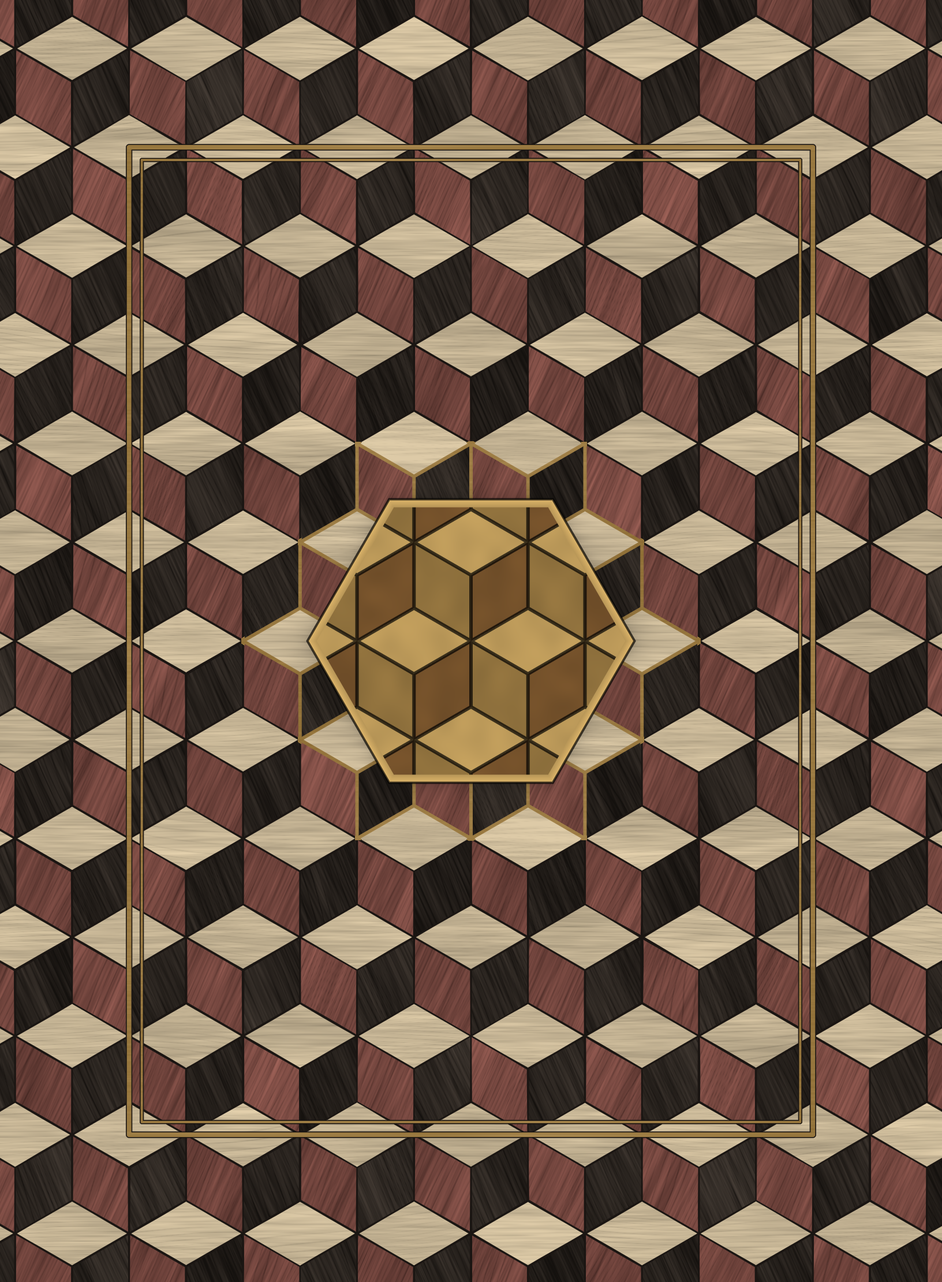
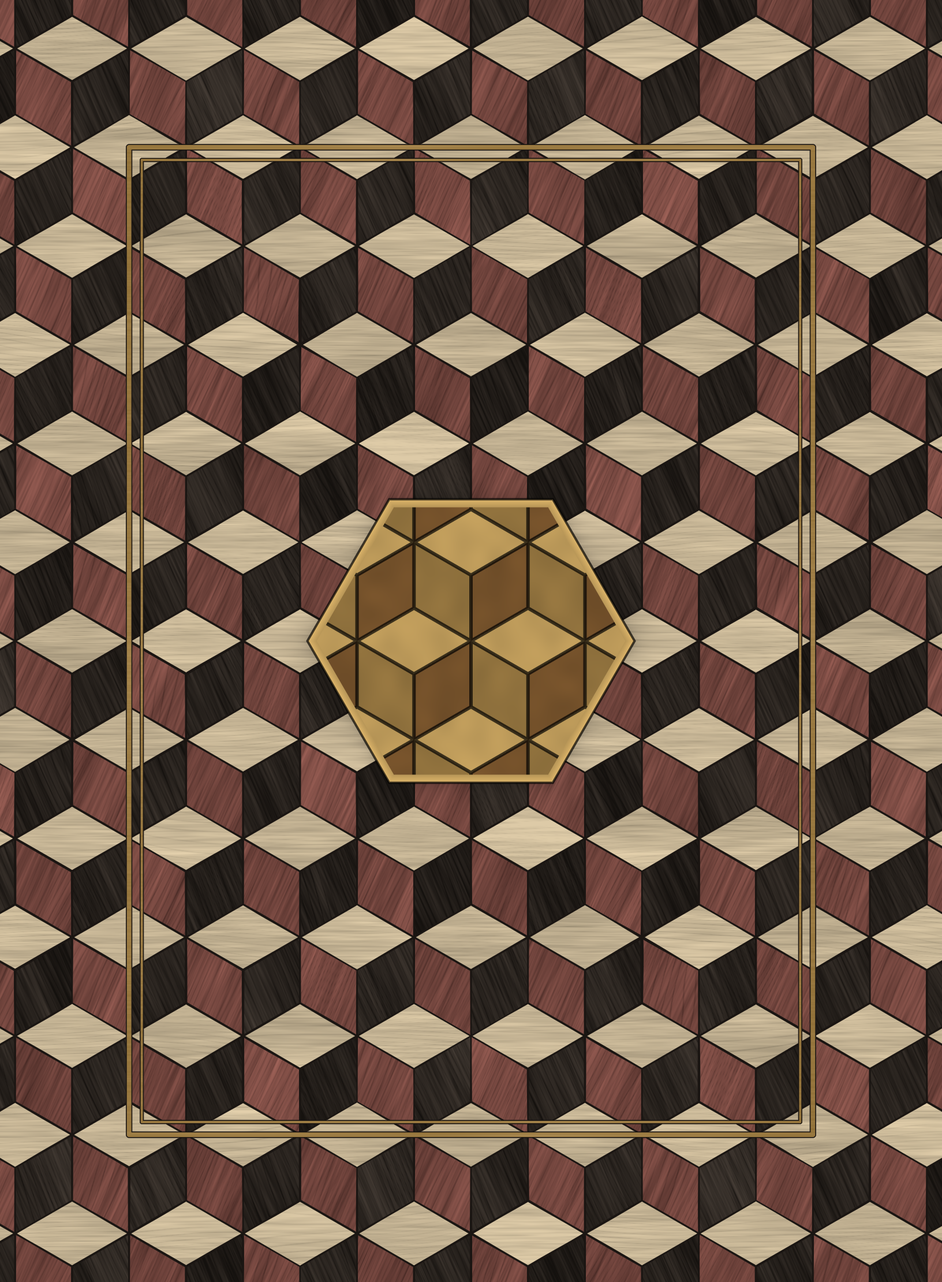
Tumbling Blocks: the star really off — the switch lives in render.py, not params.json

diff --git a/docs/proxies/cardback/blocks/tools/render.py b/docs/proxies/cardback/blocks/tools/render.py
@@ -43,7 +43,7 @@ PARAMS = {
               "grain_amp": 0.04, "grain_seed": 11, "grain_cells": [52, 70],
               "edge_line_half_px": 2.0, "edge_line_dark": 0.7,
               "shadow": 0.16, "shadow_px": 18.0,
-              "halo": True},       # the brass-strung star of 30 rhombi around it, as on the sheets the owner chose from
+              "halo": False},      # the brass-strung star of 30 rhombi around it: OFF, the owner chose the plate alone (2026-10-12)
     # OKLCh (L, C, h). L is shared by all colourways; only the mid face's C and h change.
     "faces_L": {"light": 0.770, "mid": 0.440, "dark": 0.255},
     "light": [0.770, 0.047, 83.0],      # holly / bone
